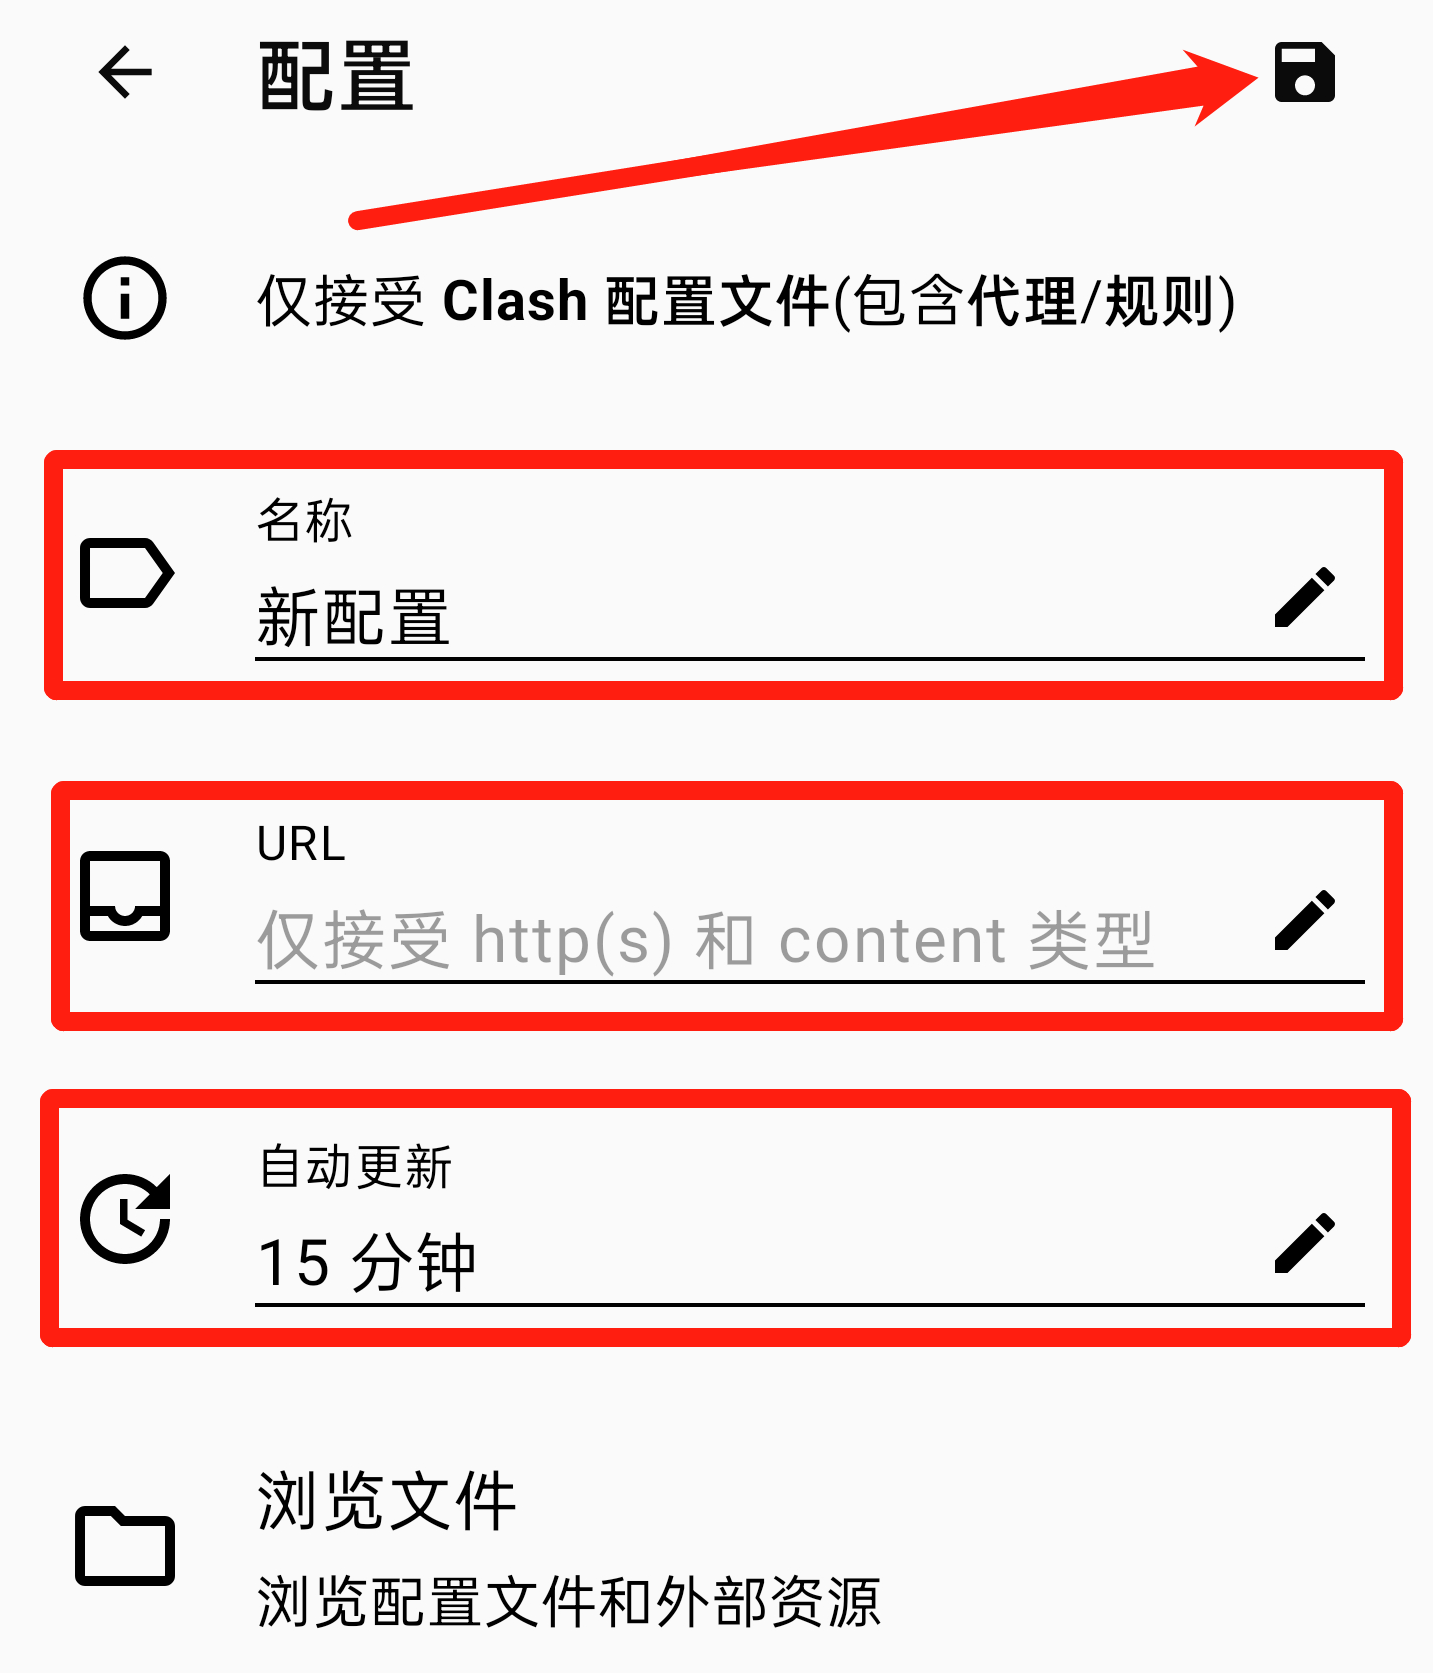
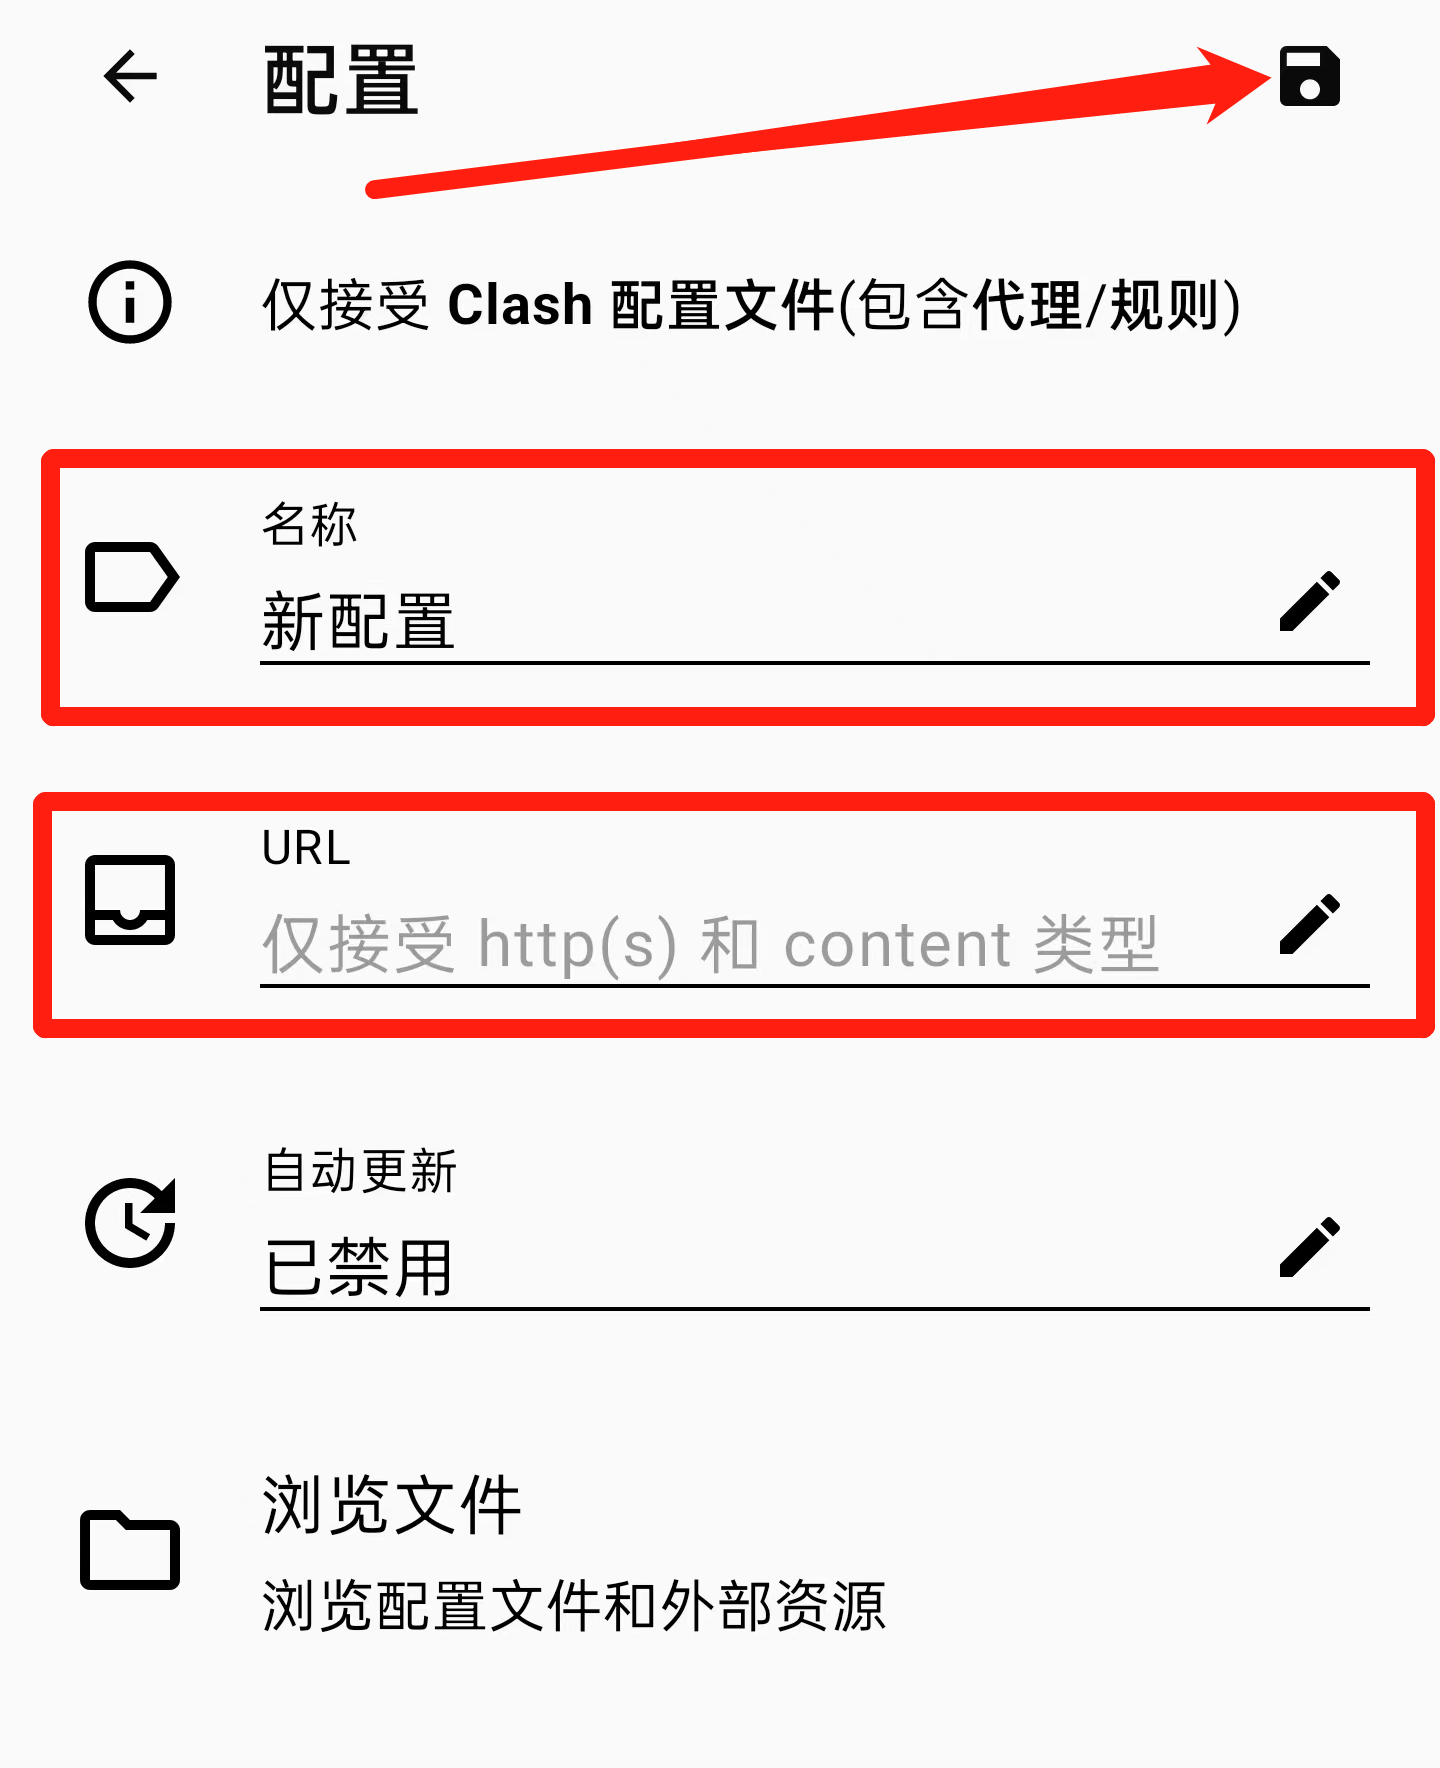
update

diff --git a/case/Proxy.md b/case/Proxy.md
@@ -14,6 +14,10 @@
 
 ![image](../images/clash.for.android.3.png)
 
+名称位置可以改成自己想要的名字
+
+URL处粘贴链接
+
 ![image](../images/clash.for.android.4.png)
 
 ![image](../images/clash.for.android.5.png)
